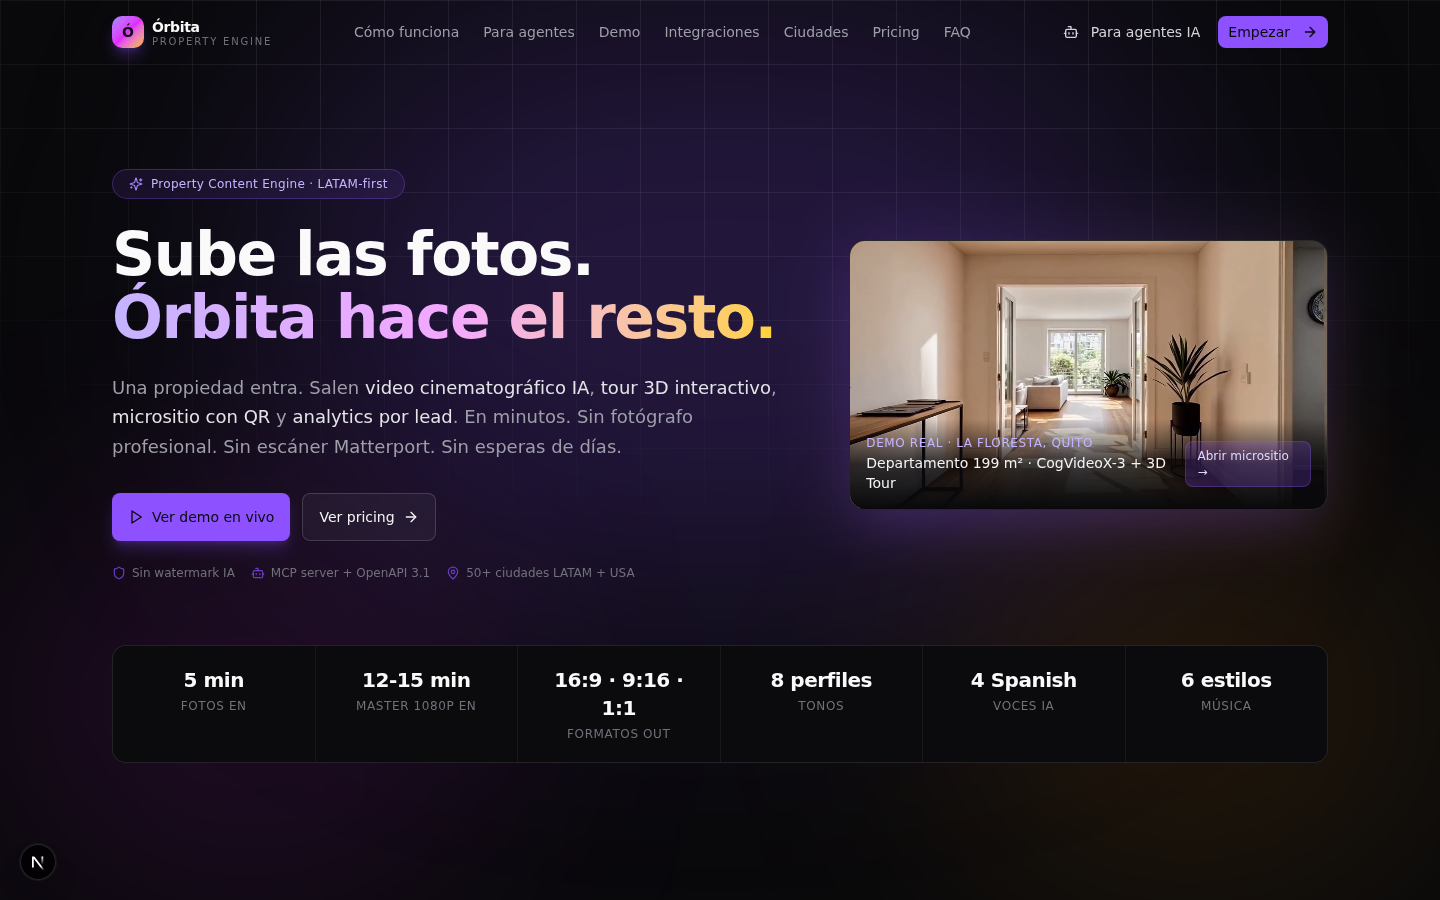
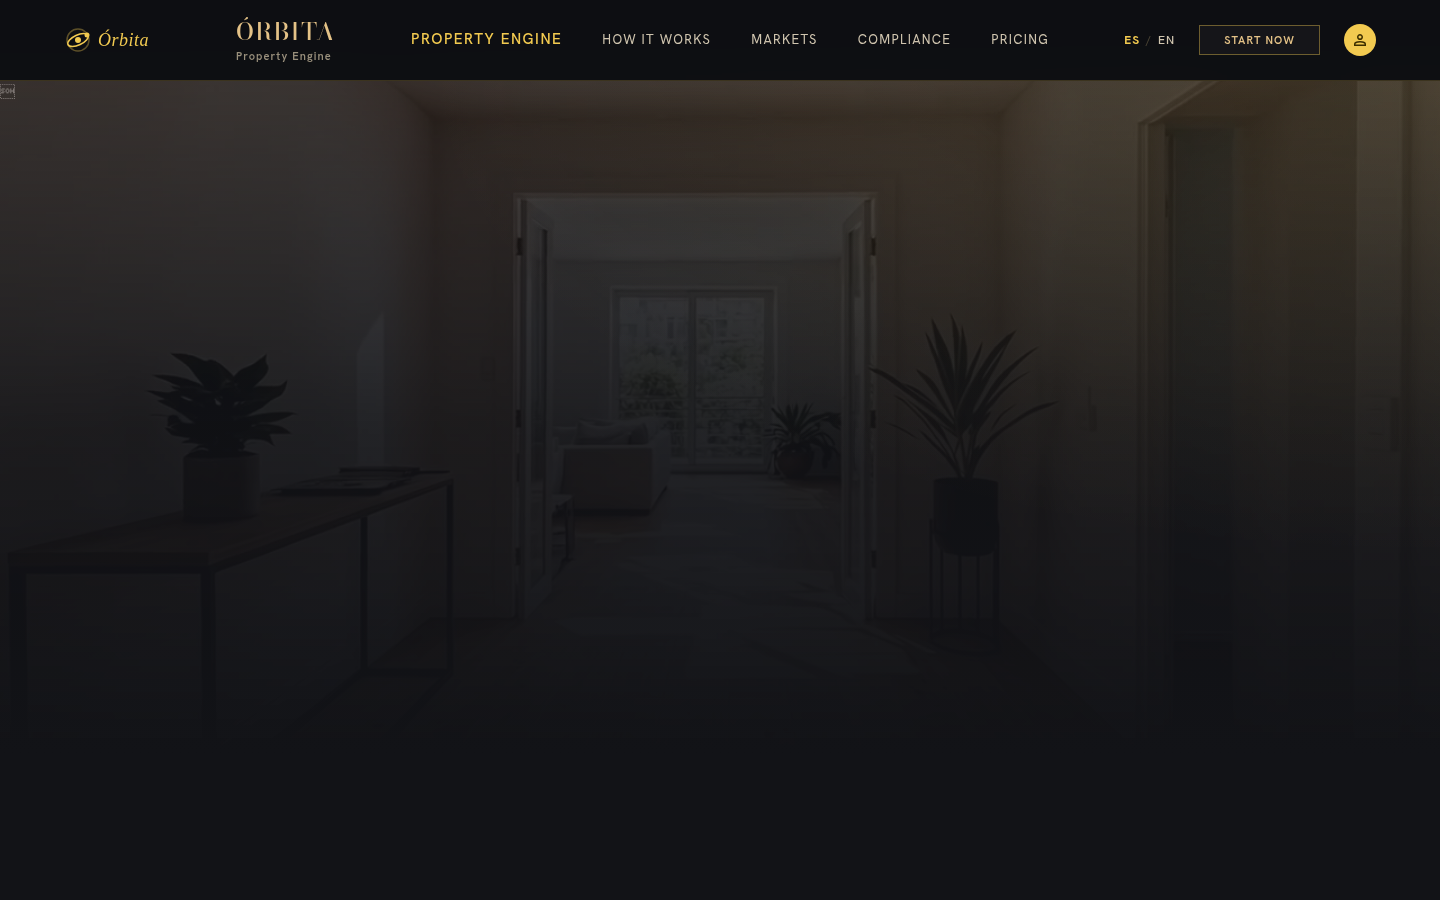
fix: rebuild hero clean — video bg + text on top + visible

diff --git a/public/orbita-landing.html b/public/orbita-landing.html
@@ -7,6 +7,61 @@
 <link rel="manifest" href="/site.webmanifest"/>
 <meta name="theme-color" content="#121317"/></head><body class="bg-surface font-body-md text-body-md text-on-surface antialiased selection:bg-primary selection:text-on-primary"><header class="fixed top-0 left-0 w-full z-50 bg-surface-container-lowest/80 backdrop-blur-xl border-b border-primary/20"><div class="h-20 w-full px-margin flex items-center justify-between"><div class="flex items-center gap-space-md"><img alt="Órbita Property Engine Logo" class="h-8 w-auto object-contain" src="/logo.svg"/><div class="flex flex-col"><span class="font-headline-sm text-headline-sm tracking-wider text-secondary uppercase">Órbita</span><span class="font-label-uppercase text-label-uppercase text-outline tracking-widest">Property Engine</span></div></div><nav class="hidden xl:flex items-center gap-space-lg" data-active-classes="text-primary font-medium"><a aria-current="page" class="tracking-widest uppercase transition-colors duration-300 text-primary font-medium" data-path="colecciones-privadas" href="#">Property Engine</a><a class="font-body-sm text-body-sm tracking-widest uppercase text-on-surface-variant hover:text-on-surface transition-colors duration-300" data-path="el-atelier" href="#">How It Works</a><a class="font-body-sm text-body-sm tracking-widest uppercase text-on-surface-variant hover:text-on-surface transition-colors duration-300" data-path="mercados-selectos" href="#">Markets</a><a class="font-body-sm text-body-sm tracking-widest uppercase text-on-surface-variant hover:text-on-surface transition-colors duration-300" data-path="curaduria" href="#">Compliance</a><a class="font-body-sm text-body-sm tracking-widest uppercase text-on-surface-variant hover:text-on-surface transition-colors duration-300" data-path="adquisicion-exclusiva" href="#">Pricing</a></nav><div class="flex items-center gap-space-md"><div class="flex items-center gap-space-xs font-label-mono-num text-label-mono-num text-on-surface-variant"><span class="text-primary font-bold cursor-pointer">ES</span><span class="text-outline-variant">/</span><span class="hover:text-on-surface cursor-pointer transition-colors">EN</span></div><a class="hidden sm:inline-flex items-center justify-center px-space-md py-space-xs border border-primary/40 bg-surface-container-low/60 hover:bg-primary-container hover:text-on-primary-container hover:border-primary transition-all duration-300 font-label-uppercase text-label-uppercase text-secondary tracking-widest uppercase" data-path="solicitar-acceso" href="#">Start Now</a><div class="w-8 h-8 rounded-full bg-primary flex items-center justify-center"><span class="material-symbols-outlined text-on-primary text-[18px]">person</span></div></div></div></header><main class="w-full pt-20 bg-surface min-h-screen"><div class="flex flex-col w-full">
 <!-- Immersive Editorial Hero -->
+<section class="relative w-full overflow-hidden bg-surface-container-lowest" style="min-height: 75vh; position: relative;">
+<!-- Video Background -->
+<div class="absolute inset-0 z-0 overflow-hidden">
+<video src="/orbita/demo/la-floresta-3d.mp4" poster="/orbita/demo/poster.jpg" autoplay muted loop playsinline class="w-full h-full object-cover" style="opacity: 0.35;"></video>
+</div>
+<!-- Gradient Overlay -->
+<div class="absolute inset-0 z-[1]" style="background: linear-gradient(to top, #121317 5%, rgba(18,19,23,0.7) 40%, rgba(18,19,23,0.3) 100%);"></div>
+<!-- Hero Text Content -->
+<div class="relative z-10 w-full px-8 lg:px-16 flex flex-col justify-center items-start" style="min-height: 75vh; padding-top: 80px;">
+<div class="max-w-5xl space-y-6">
+<div class="inline-flex items-center gap-3 px-4 py-2 bg-surface-container-low/90 backdrop-blur-md rounded shadow-sm">
+<span class="w-1.5 h-1.5 rotate-45 bg-primary"></span>
+<span class="font-label-uppercase text-label-uppercase text-secondary tracking-[0.28em] uppercase">Órbita · Property Engine 2026</span>
+<span class="text-outline text-xs">/</span>
+<span class="font-label-mono-num text-label-mono-num text-on-surface-variant">VOL. IX</span>
+</div>
+<h1 class="font-display-hero text-display-hero text-on-surface tracking-tight leading-[1.04] max-w-4xl" style="font-size: clamp(2.5rem, 5vw, 4.5rem); line-height: 1.1;">
+Upload Your Photos.<br/>
+<span class="italic font-display-hero text-secondary font-light">Órbita Renders the Rest.</span>
+</h1>
+<p class="font-body-lg text-body-lg text-on-surface-variant max-w-2xl font-light leading-relaxed" style="font-size: 1.125rem; line-height: 1.85rem;">
+AI-powered property content engine for real estate agents. Upload photos — get cinematic AI video (CogVideoX-3), interactive 3D tours (Depth Anything V2), bilingual microsites with QR, and per-property analytics in 15 minutes. 50+ USA cities with MLS Grid integration.
+</p>
+<div class="pt-4 flex flex-wrap items-center gap-4">
+<a href="/orbita/demo/la-floresta-3d.mp4" target="_blank" class="px-8 py-4 bg-primary text-on-primary font-label-uppercase text-label-uppercase tracking-[0.22em] uppercase transition-all duration-500 hover:bg-secondary hover:shadow-[0_0_30px_rgba(242,202,80,0.3)] cursor-pointer flex items-center gap-2" style="background: #f2ca50; color: #241a00;">
+<span>Explore the Engine</span>
+<span class="material-symbols-outlined text-[16px]">arrow_forward</span>
+</a>
+<a href="/legal/terms" class="px-8 py-4 bg-surface-container-high/60 backdrop-blur-md text-secondary font-label-uppercase text-label-uppercase tracking-[0.22em] uppercase transition-all duration-500 hover:bg-surface-container-highest cursor-pointer flex items-center gap-2">
+<span class="material-symbols-outlined text-[16px] text-primary">encrypted</span>
+<span>Start with 1 Property</span>
+</a>
+</div>
+</div>
+</div>
+<!-- Stats Bar -->
+<div class="relative z-10 mt-8 pt-6 grid grid-cols-2 md:grid-cols-4 gap-4 bg-surface-container-low/70 backdrop-blur-xl px-6 py-4 rounded shadow-md mx-8 lg:mx-16">
+<div class="flex flex-col space-y-1">
+<span class="font-headline-sm text-headline-sm text-primary tracking-tight">12K+</span>
+<span class="font-label-uppercase text-label-uppercase text-on-surface-variant uppercase tracking-widest">Properties Rendered</span>
+</div>
+<div class="flex flex-col space-y-1">
+<span class="font-headline-sm text-headline-sm text-primary tracking-tight">18</span>
+<span class="font-label-uppercase text-label-uppercase text-on-surface-variant uppercase tracking-widest">MLS Integrated</span>
+</div>
+<div class="flex flex-col space-y-1">
+<span class="font-headline-sm text-headline-sm text-primary tracking-tight">50+</span>
+<span class="font-label-uppercase text-label-uppercase text-on-surface-variant uppercase tracking-widest">USA Cities</span>
+</div>
+<div class="flex flex-col space-y-1">
+<span class="font-headline-sm text-headline-sm text-primary tracking-tight">15min</span>
+<span class="font-label-uppercase text-label-uppercase text-on-surface-variant uppercase tracking-widest">Per Property</span>
+</div>
+</div>
+</section>
 <section class="relative w-full overflow-hidden bg-surface-container-lowest" style="min-height: 75vh; position: relative">
 <!-- Living Architectural Backdrop -->
 <div class="absolute inset-0 z-0">
